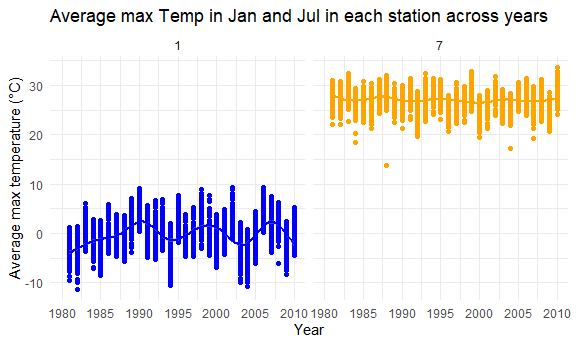
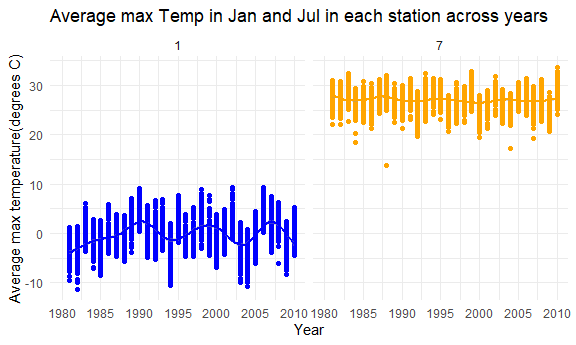
patchwork + question 3 completed

Changed region(s): [[0.0, 0.1739, 0.0625, 0.8696]]

diff --git a/p8105_hw3_hw2861.md b/p8105_hw3_hw2861.md
@@ -18,6 +18,7 @@ library(tidyverse)
 
 ``` r
 library(p8105.datasets)
+library(patchwork)
 
 knitr::opts_chunk$set(
   fig.width = 6,
@@ -259,7 +260,7 @@ Make a two-panel plot showing the average max temperature in January and
 in July in each station across years.
 
 ``` r
-ny_noaa_clean %>% 
+ ny_noaa_clean %>% 
   filter(month == c(1, 7)) %>%
   group_by(id,year,month) %>% 
   summarize(temp_mean_max = mean(tmax),na.rm = TRUE) %>% 
@@ -268,10 +269,10 @@ ny_noaa_clean %>%
     labs(
     title = "Average max Temp in Jan and Jul in each station across years",
     x = "Year",
-    y = "Average max temperature (°C)") +
+    y = "Average max temperature(degrees C)") +
  scale_x_continuous(
     limits = c(1980, 2010),
-    breaks = c(1980, 1985, 1990, 1995,2000,2005, 2010), 
+    breaks = c(1980, 1985, 1990, 1995,2000,2005,2010), 
     labels = c("1980","1985","1990","1995", "2000", "2005","2010")
     ) +
   facet_grid(. ~ month) +
@@ -291,9 +292,9 @@ ny_noaa_clean %>%
 
 Based on the two-panel plot, We can observe that the average maximum
 temperature in January is usually in the range of -10°C to 10°C, with
-the mean around 0°C. There were some outliers in January 1982, when they
-had an average max temperature around -10°C. Also, outliers were seen in
-January 2008, at around -5°C.
+the mean of (average maximum temperature) around 0°C. There were some
+outliers in January 1982, when they had an average max temperature
+around -10°C. Also, outliers were seen in January 2008, at around -5°C.
 
 We can observe that the average maximum temperature in July is usually
 in the range of 20°C to 30°C, with the mean around 27°C. There are more
@@ -306,3 +307,60 @@ maximum temperature of around 33°C for that month.
 Based on the line generated from geom_smooth, We can tell that the
 average maximum temperature across years fluctuates more drastically in
 January than in July.
+
+### Part3 in Q3
+
+1)  tmax vs tmin for the full dataset
+
+``` r
+noaa_tmax_tmin=ny_noaa_clean %>% 
+  ggplot(aes(x = tmin, y = tmax)) + 
+    geom_hex()+
+    labs(
+    title = "The relationship between tmin and tmax",
+    x = "Minimum temperature (degrees C)",
+    y = "Maximum temperature (degrees C)")
+
+noaa_tmax_tmin
+```
+
+    ## Warning: Removed 1136276 rows containing non-finite values (stat_binhex).
+
+<img src="p8105_hw3_hw2861_files/figure-gfm/tmax vs tmin-1.png" width="90%" />
+
+2)  make a plot showing the distribution of snowfall values greater than
+    0 and less than 100 separately by year.
+
+``` r
+noaa_snowfall = ny_noaa_clean %>% 
+   filter(0 < snow, snow < 100) %>%
+  ggplot(aes(x = year, y = snow)) + 
+  geom_violin() + 
+    labs(
+    title = "The distribution of snowfall values (0-100mm) by years",
+    x = "Year",
+    y = "Snowfall (mm)") +
+    scale_x_continuous(
+    limits = c(1980, 2010),
+    breaks = c(1980, 1985, 1990, 1995,2000,2005, 2010), 
+    labels = c("1980","1985","1990","1995", "2000", "2005","2010")
+    )  
+   
+noaa_snowfall     
+```
+
+<img src="p8105_hw3_hw2861_files/figure-gfm/the distribution of snowfall values-1.png" width="90%" />
+
+3)  patchwork
+
+``` r
+noaa_tmax_tmin / noaa_snowfall
+```
+
+    ## Warning: Removed 1136276 rows containing non-finite values (stat_binhex).
+
+<img src="p8105_hw3_hw2861_files/figure-gfm/patchwork-1.png" width="90%" />
+
+The above plot shows tmax vs tmin for the full dataset. The blow plot
+shows the distribution of snowfall values greater than 0 and less than
+100 separately by year.
